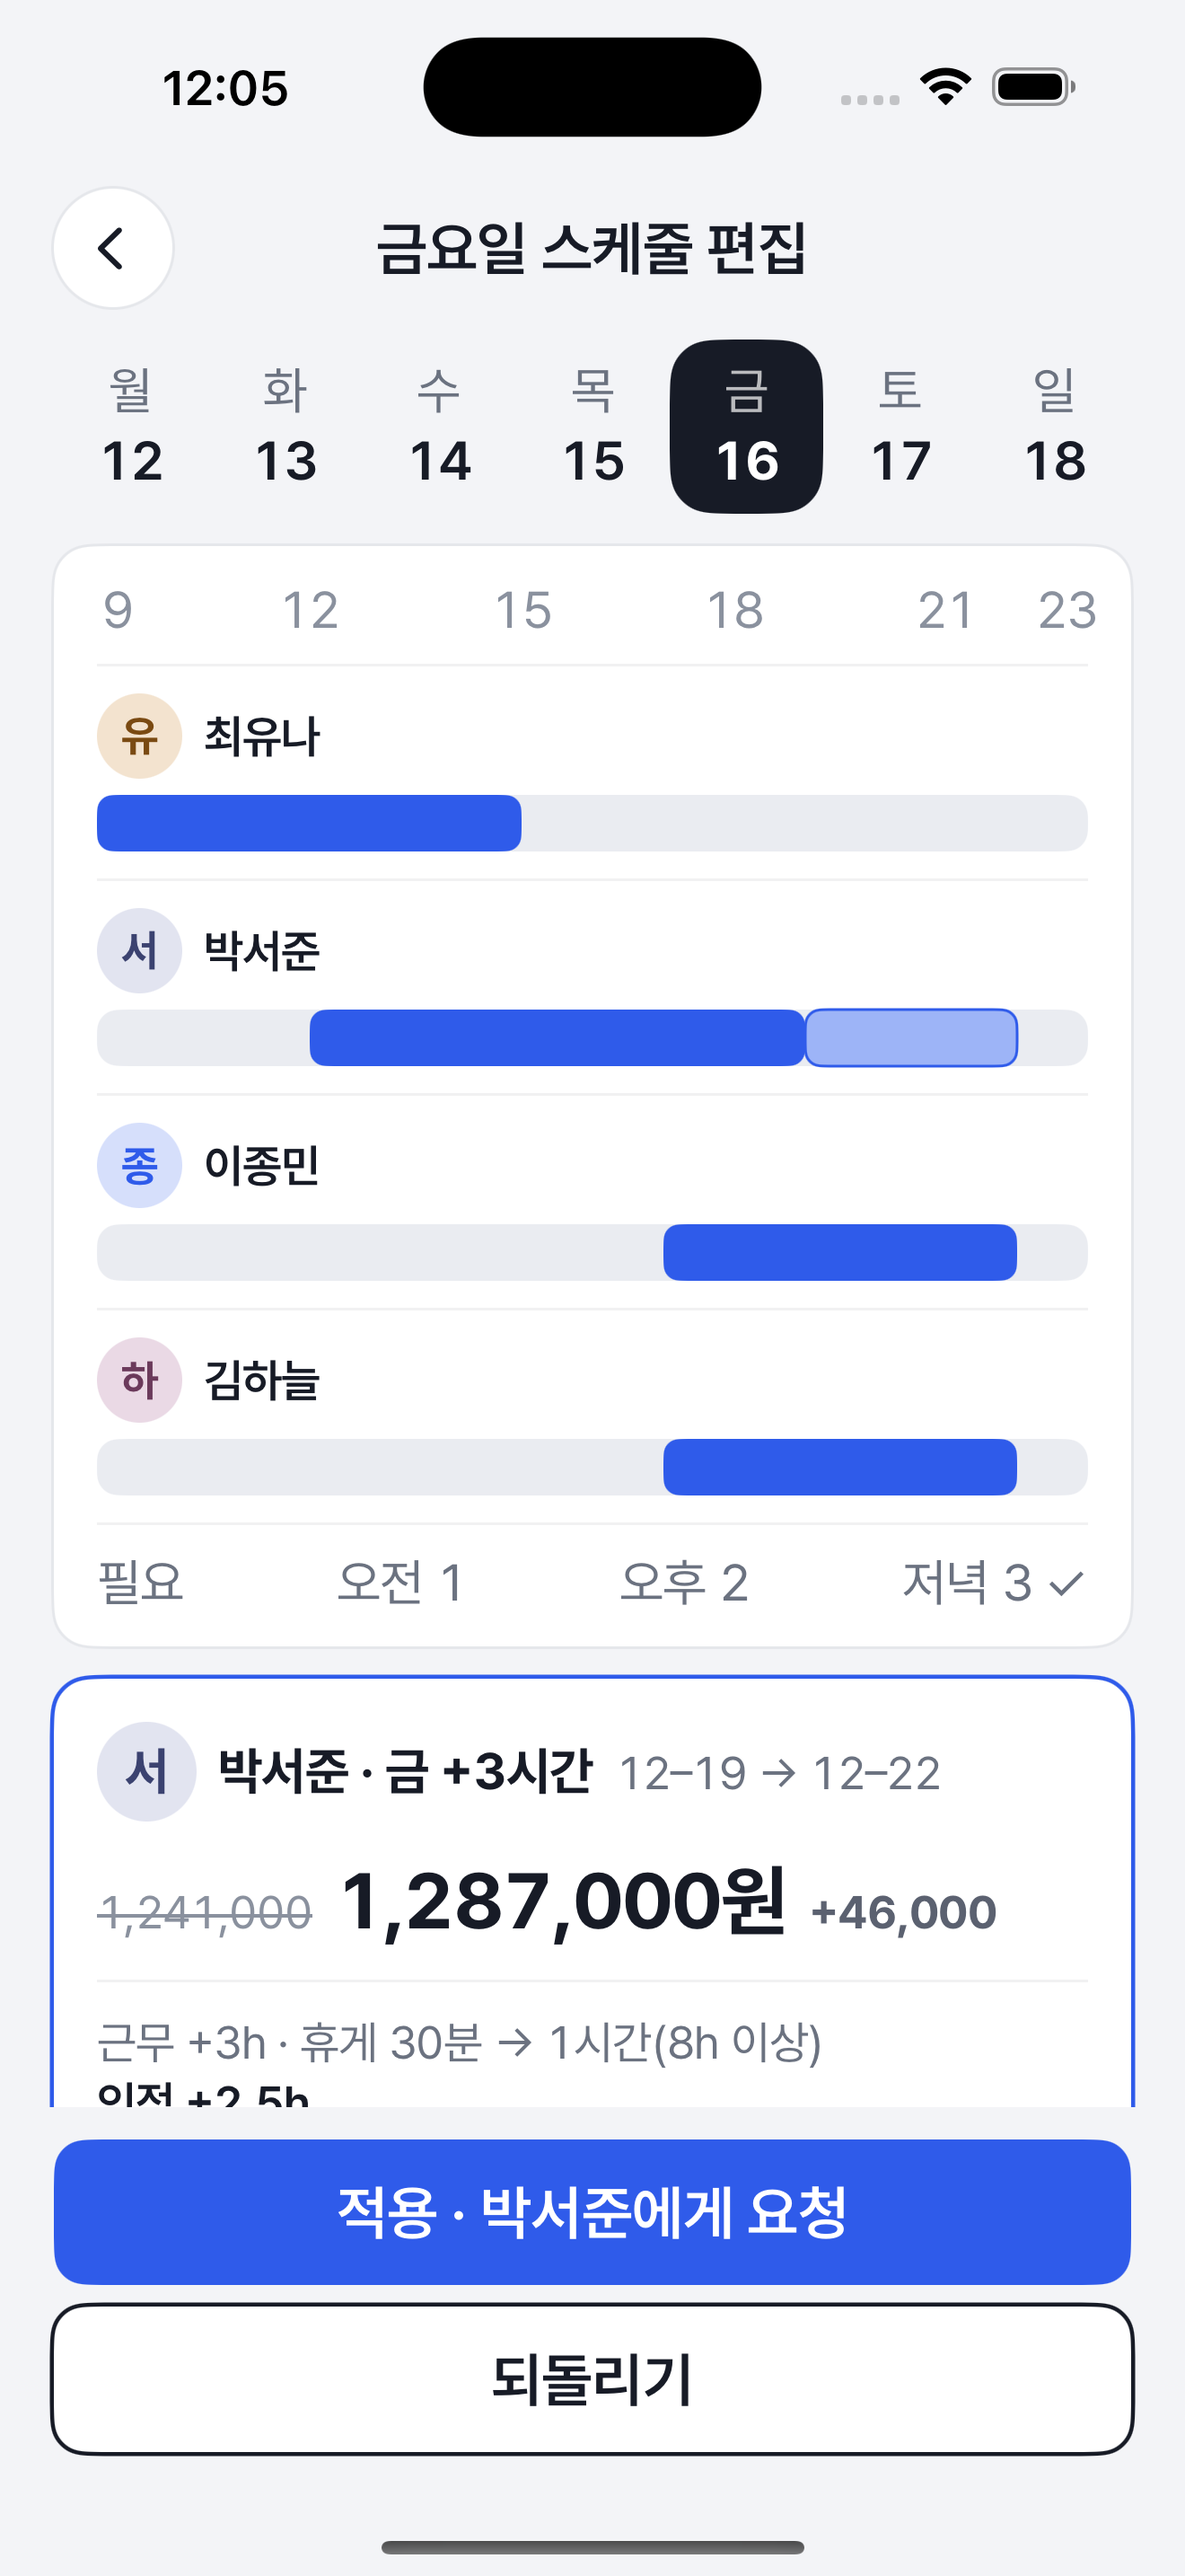
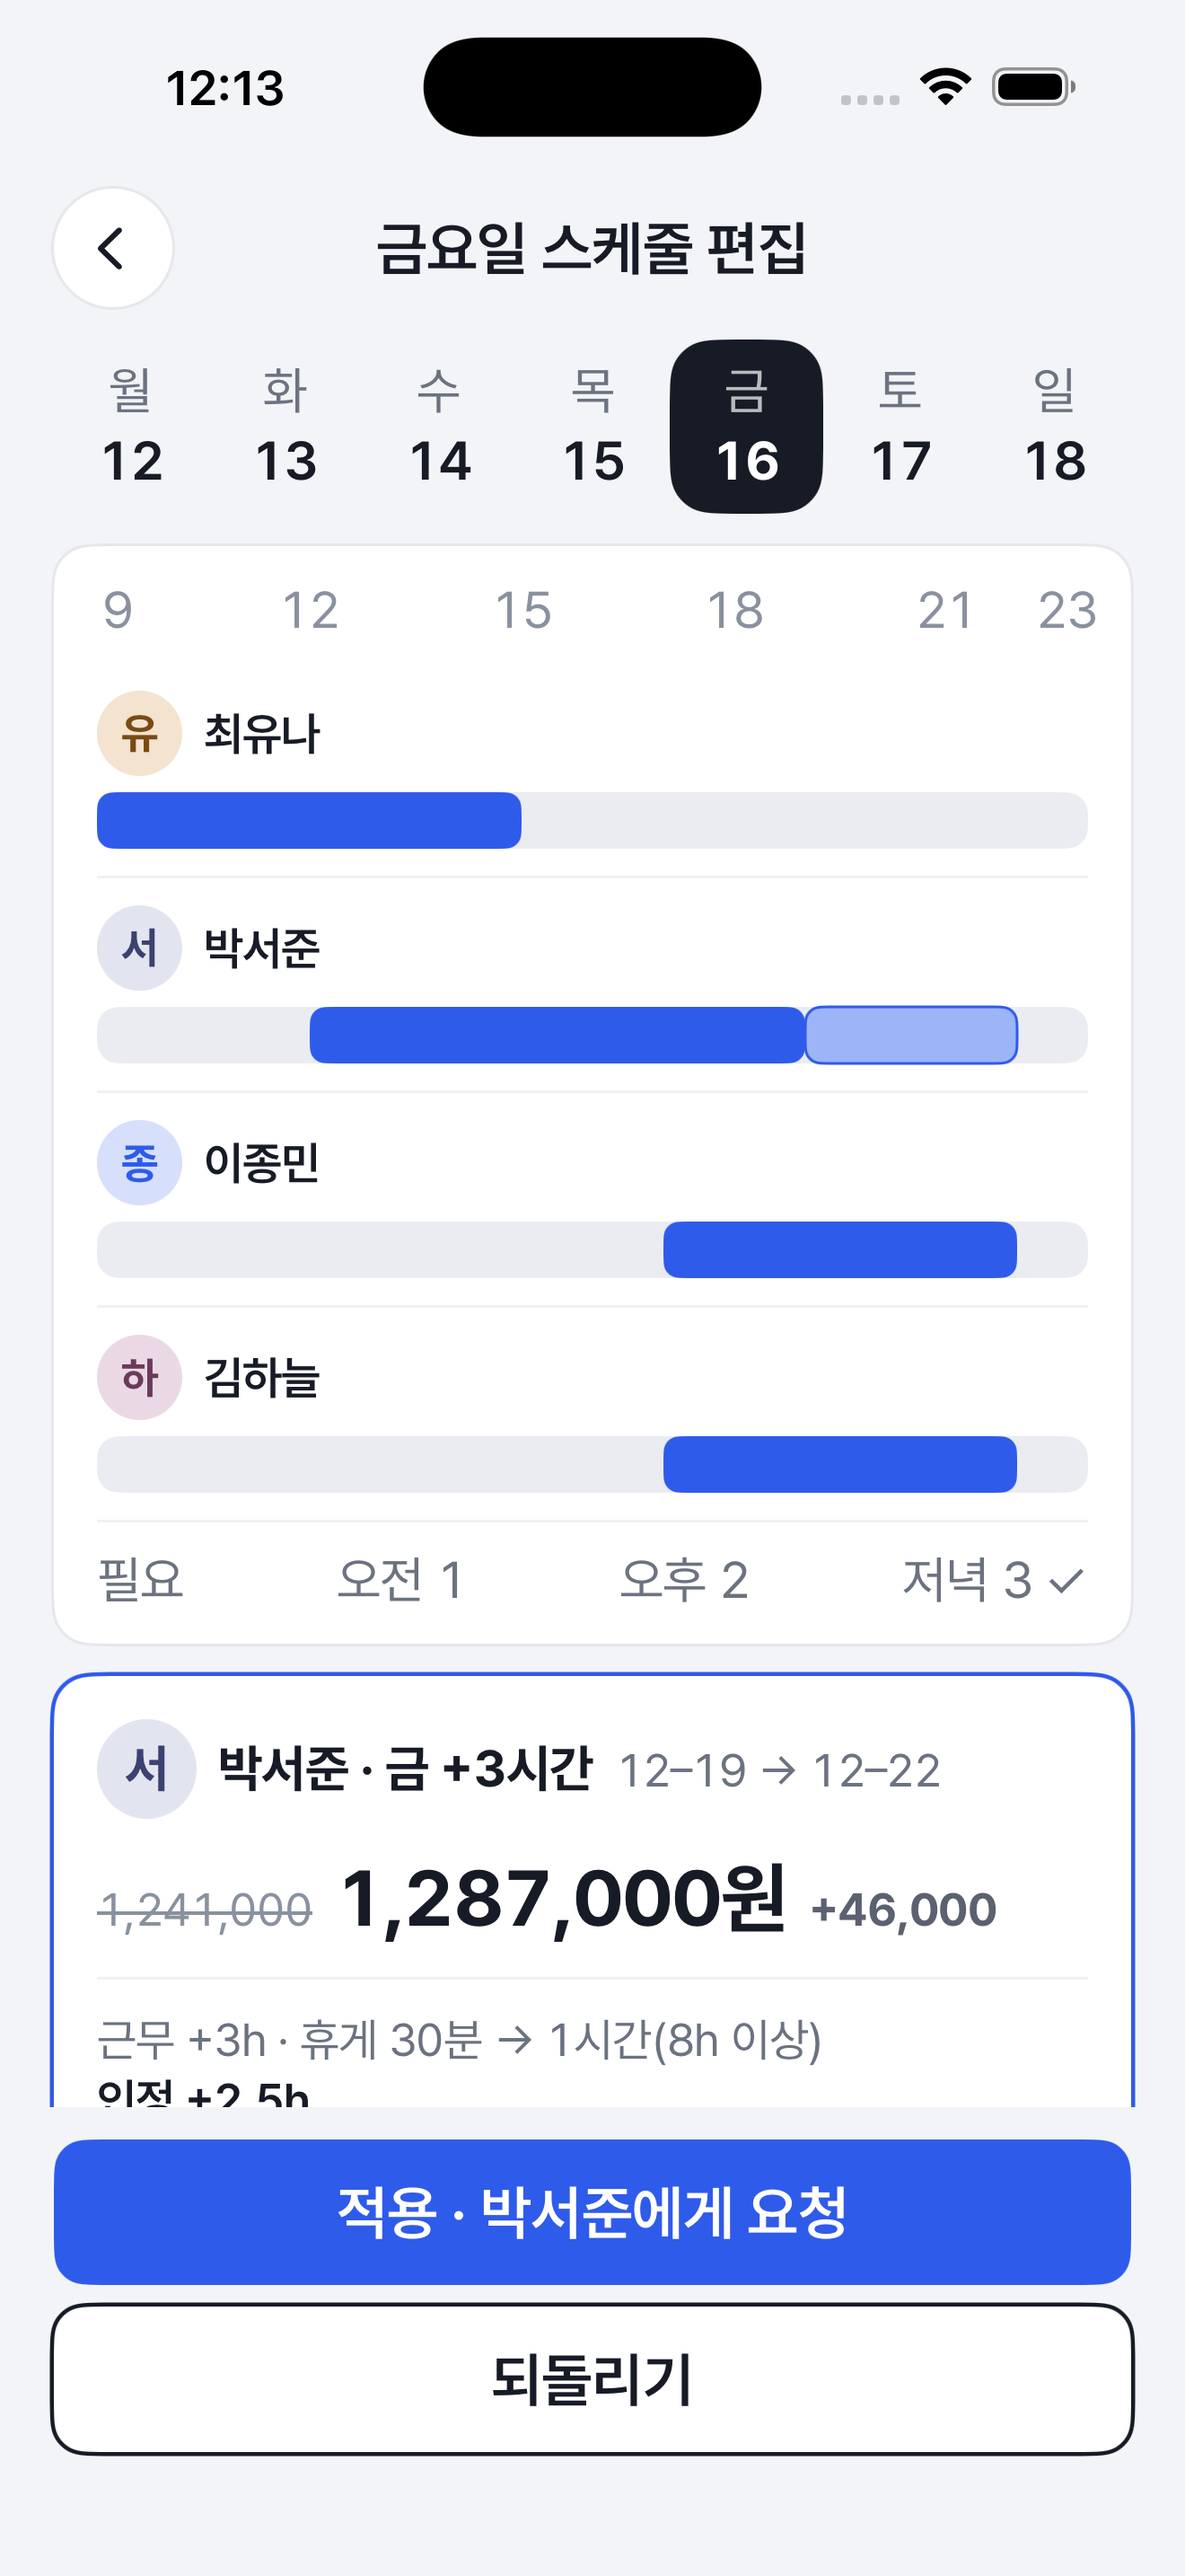
fix(schedule): 직접 조정(9d) 결과에 요일 포함 · 적용 중 편집 잠금 · 눈금 아래 선 제거
계산 결과에 요일을 넣어 다른 날 결과가 새 날짜 아래 보이지 않게, 요일을 바꾸거나
서버가 근무를 새로 주면 결과를 버림. 적용 중엔 요일 · 근무 편집 잠금.
원문처럼 눈금과 첫 행 사이 선 없앰, 차이 0이면 부호 없음. 테스트 3개 추가.

Refs #218 · UI-IOS-9d

diff --git a/Pum/Pum/Features/Schedule/ScheduleManualEdit/ScheduleManualEditState.swift b/Pum/Pum/Features/Schedule/ScheduleManualEdit/ScheduleManualEditState.swift
@@ -54,6 +54,8 @@ nonisolated struct ScheduleManualEditResult: Equatable, Sendable {
         var valueText: String
     }
 
+    /// 이 결과를 계산한 요일(요일 id) — 다른 날의 결과를 새 날짜 아래 보이지 않게
+    var day: Int
     /// 이 결과를 계산한 근무 상태(바뀐 사람 포함 전체)
     var basis: [ManualEditShiftValue]
     /// 「박서준 · 금 +3시간」
@@ -71,7 +73,7 @@ nonisolated struct ScheduleManualEditResult: Equatable, Sendable {
     var beforeText: String { PumFormat.amount(beforeWon) }
     var afterText: String { "\(PumFormat.amount(afterWon))원" }
     /// 부호는 서버가 준 증감 값의 부호
-    var deltaText: String { (deltaWon >= 0 ? "+" : "\u{2212}") + PumFormat.amount(abs(deltaWon)) }
+    var deltaText: String { (deltaWon > 0 ? "+" : deltaWon < 0 ? "\u{2212}" : "") + PumFormat.amount(abs(deltaWon)) }
     /// VoiceOver — 「1,241,000원에서 1,287,000원, 46,000원 늘어남」
     var spoken: String {
         let change = deltaWon >= 0 ? "늘어남" : "줄어듦"
@@ -108,7 +110,7 @@ nonisolated struct ScheduleManualEditState: Equatable, Sendable {
     var hasChange: Bool { changedShift != nil }
     var currentBasis: [ManualEditShiftValue] { shifts.map(\.value) }
     /// 결과가 있고 계산 조건이 지금 편집 상태와 같을 때만 true
-    var resultIsCurrent: Bool { result?.basis == currentBasis }
+    var resultIsCurrent: Bool { result?.day == selectedDay && result?.basis == currentBasis }
     var visibleResult: ScheduleManualEditResult? { resultIsCurrent ? result : nil }
     var displayedNeeds: [String] { visibleResult?.needs ?? needs }
 
@@ -131,7 +133,7 @@ nonisolated struct ScheduleManualEditState: Equatable, Sendable {
     /// 근무를 바꾼다. 시작 < 끝일 때만. 바뀌면 true
     @discardableResult
     mutating func setRange(employeeId: Int, start: Int, end: Int) -> Bool {
-        guard start < end, let i = shifts.firstIndex(where: { $0.employeeId == employeeId }) else { return false }
+        guard !isApplying, start < end, let i = shifts.firstIndex(where: { $0.employeeId == employeeId }) else { return false }
         guard shifts[i].startMinutes != start || shifts[i].endMinutes != end else { return false }
         shifts[i].startMinutes = start
         shifts[i].endMinutes = end
@@ -150,8 +152,9 @@ nonisolated struct ScheduleManualEditState: Equatable, Sendable {
     }
 
     mutating func select(day id: Int) {
-        guard days.contains(where: { $0.id == id }) else { return }
+        guard !isApplying, id != selectedDay, days.contains(where: { $0.id == id }) else { return }
         selectedDay = id
+        result = nil // 다른 날 결과는 버린다 — 새 날의 근무 · 결과는 서버가 다시 준다
     }
 
     /// 적용은 한 번만 — 처리 중이면 false
@@ -201,7 +204,7 @@ nonisolated struct ScheduleManualEditState: Equatable, Sendable {
         ]
         let needs = ["오전 1", "오후 2", "저녁 3 \u{2713}"]
         let result = ScheduleManualEditResult(
-            basis: shifts.map(\.value), title: "박서준 \u{00B7} 금 +3시간", rangeText: "12\u{2013}19 \u{2192} 12\u{2013}22",
+            day: 4, basis: shifts.map(\.value), title: "박서준 \u{00B7} 금 +3시간", rangeText: "12\u{2013}19 \u{2192} 12\u{2013}22",
             beforeWon: 1_241_000, afterWon: 1_287_000, deltaWon: 46_000,
             lines: [
                 .init(title: "근무 +3h \u{00B7} 휴게 30분 \u{2192} 1시간(8h 이상)", valueText: "인정 +2.5h"),

diff --git a/Pum/Pum/Features/Schedule/ScheduleManualEdit/ScheduleManualEditView.swift b/Pum/Pum/Features/Schedule/ScheduleManualEdit/ScheduleManualEditView.swift
@@ -63,8 +63,11 @@ struct ScheduleManualEditView: View {
                 .padding(.horizontal, PumTokens.Size.screenPad)
             ScrollView {
                 VStack(alignment: .leading, spacing: PumTokens.Space.s12) {
-                    dayStrip
-                    timelineCard
+                    Group { // 적용을 보내는 동안은 보낸 값과 화면이 어긋나지 않게 잠근다
+                        dayStrip
+                        timelineCard
+                    }
+                    .disabled(state.isApplying)
                     if let title = state.cardTitle { changedCard(title) }
                 }
                 .padding(.horizontal, PumTokens.Size.screenPad)
@@ -79,6 +82,7 @@ struct ScheduleManualEditView: View {
             state.selectedDay = new.selectedDay
             state.shifts = new.shifts
             state.needs = new.needs
+            state.result = nil // 서버가 근무를 새로 주면 이전 계산은 버린다
         }
         .pumTimeRangeSheet(isPresented: $pickerOpen, value: $pickerValue, options: pickerOptions) {
             guard let id = pickerEmployee else { return }
@@ -140,9 +144,9 @@ struct ScheduleManualEditView: View {
     private var timelineCard: some View {
         PumCard {
             VStack(spacing: 0) {
-                tickRow
-                ForEach(state.shifts) { shift in
-                    divider
+                tickRow // 원문: 눈금과 첫 행 사이에 선 없음
+                ForEach(Array(state.shifts.enumerated()), id: \.element.id) { i, shift in
+                    if i > 0 { divider }
                     shiftRow(shift)
                 }
                 divider

diff --git a/Pum/PumTests/Features/Schedule/ScheduleManualEditTests.swift b/Pum/PumTests/Features/Schedule/ScheduleManualEditTests.swift
@@ -98,4 +98,26 @@ struct ScheduleManualEditTests {
         #expect(ScheduleManualEditState.tickFraction(hour: 9) == 0)
         #expect(ScheduleManualEditState.tickFraction(hour: 23) == 1)
     }
+
+    @Test func 요일을_바꾸면_이전_결과는_버린다() {
+        var s = ScheduleManualEditState.sample
+        #expect(s.resultIsCurrent)
+        s.select(day: 5)
+        #expect(!s.resultIsCurrent)
+        #expect(s.result == nil)
+    }
+
+    @Test func 적용_중에는_편집되지_않는다() {
+        var s = ScheduleManualEditState.sample
+        let began = s.beginApply()
+        let changed = s.setRange(employeeId: 1, start: 10 * 60, end: 15 * 60)
+        s.select(day: 5)
+        #expect(began && !changed && s.selectedDay == 4)
+    }
+
+    @Test func 차이가_0이면_부호_없음() {
+        var r = ScheduleManualEditState.sample.result!
+        r.deltaWon = 0
+        #expect(r.deltaText == "0")
+    }
 }

diff --git a/docs/design/compare/screens/README.md b/docs/design/compare/screens/README.md
@@ -828,4 +828,5 @@
 | 눈금 위치 | 균등 배치 | 9–23시 실제 비율 위치 | 근사 |
 | 아바타 색 | 사람 색 | 처음 다른 색 → 7a · 9c와 같은 사람 색으로 고침 | 일치 |
 | 막대 끌어 조정 | 원문 없음(screen-index 「추정」) | 직원 행을 누르면 C13 시간 시트 | **결정 필요** — 추천: 시트 유지 |
-| 금액 · 내역 | 엔진 값 | 계산 조건이 지금 편집과 같을 때만 표시 · 적용 활성 | 구현 기준 |
+| 금액 · 내역 | 엔진 값 | 계산 조건(요일 · 근무)이 지금 편집과 같을 때만 표시 · 적용 활성 | 구현 기준 |
+| 여러 명 변경 · 계산 중 · 적용 실패 | 원문 없음 | 카드는 첫 사람만, 상태 표시 없음 | **결정 필요** |
